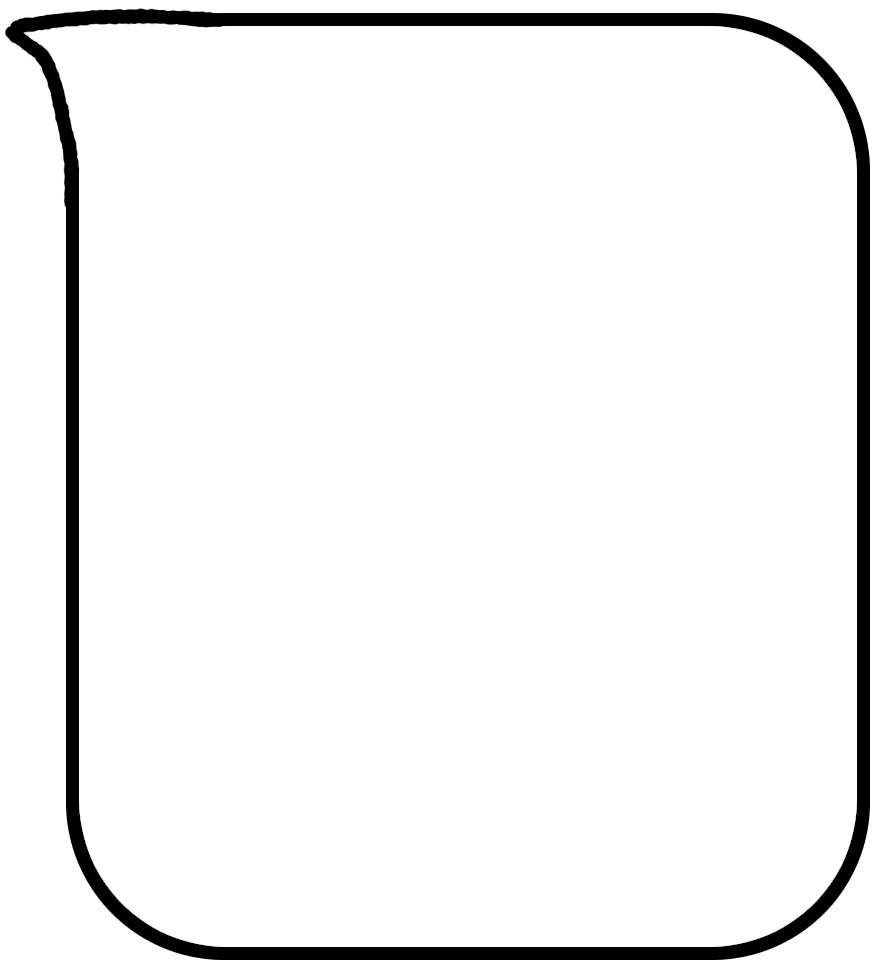
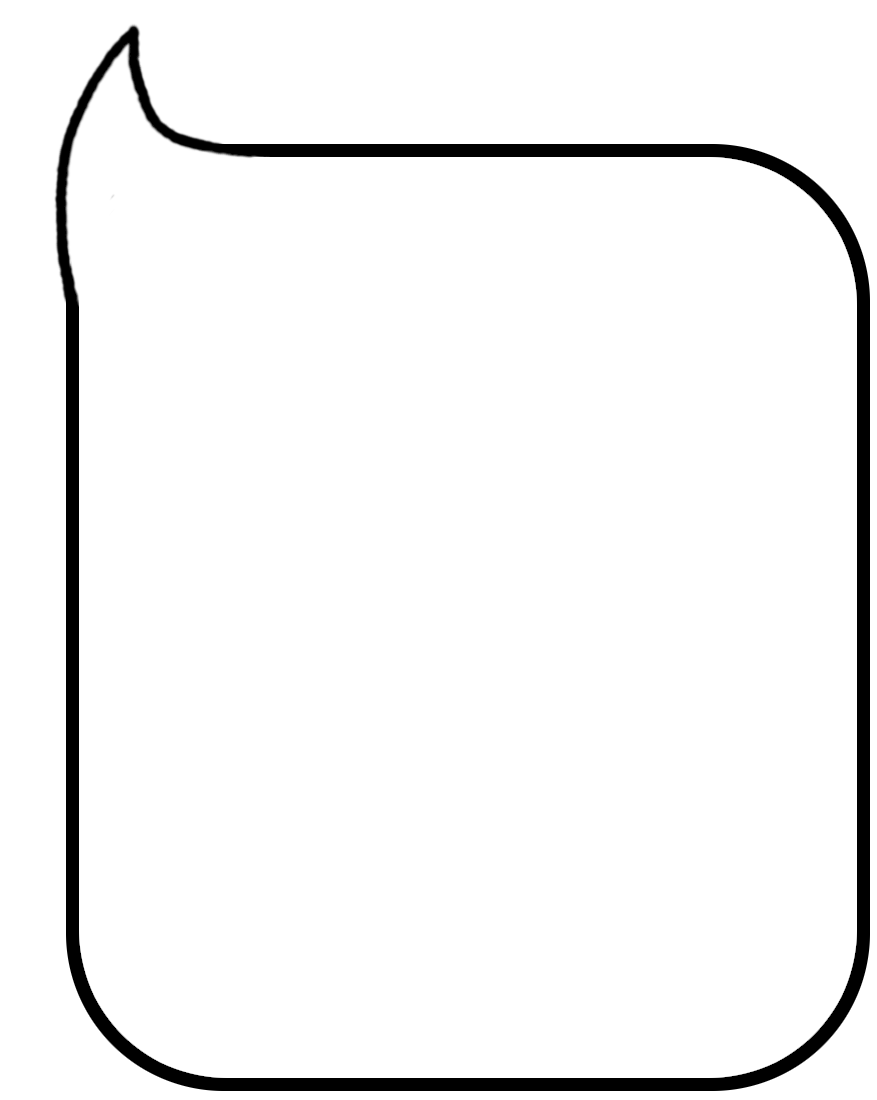
cambio bocadillo

Changed region(s): [[0.0, 0.0, 1.0, 0.2786], [0.0616, 0.8359, 1.0, 1.0]]

diff --git a/GoodProductSorter/src/main/resources/static/src/states/level1cutscene.js b/GoodProductSorter/src/main/resources/static/src/states/level1cutscene.js
@@ -68,7 +68,7 @@ GoodProductSorter.level1Cutscene.prototype = {
         this.charCount = 0;
         this.text = "Pensaba que no ibas a llegar nunca!\n¡Jaja Mira te voy a explicar mi\nidea millonaria,\nse trata de recoger y clasificar los objetos \nde otras empresas\ny mandárselos de vuelta,\ny solo tenemos que pagar el transporte!\n¡Una ganga!\nMira ponte ahí ya verás…"
 
-        this.phaserText = game.add.text(bocadillo.x + bocadillo.width*0.1, bocadillo.y + bocadillo.height*0.1, "", style2);
+        this.phaserText = game.add.text(bocadillo.x + bocadillo.width*0.1, bocadillo.y + bocadillo.height*0.2, "", style2);
 
         game.time.events.add(Phaser.Timer.SECOND * 0.05, this.showLetter, this);
 		
